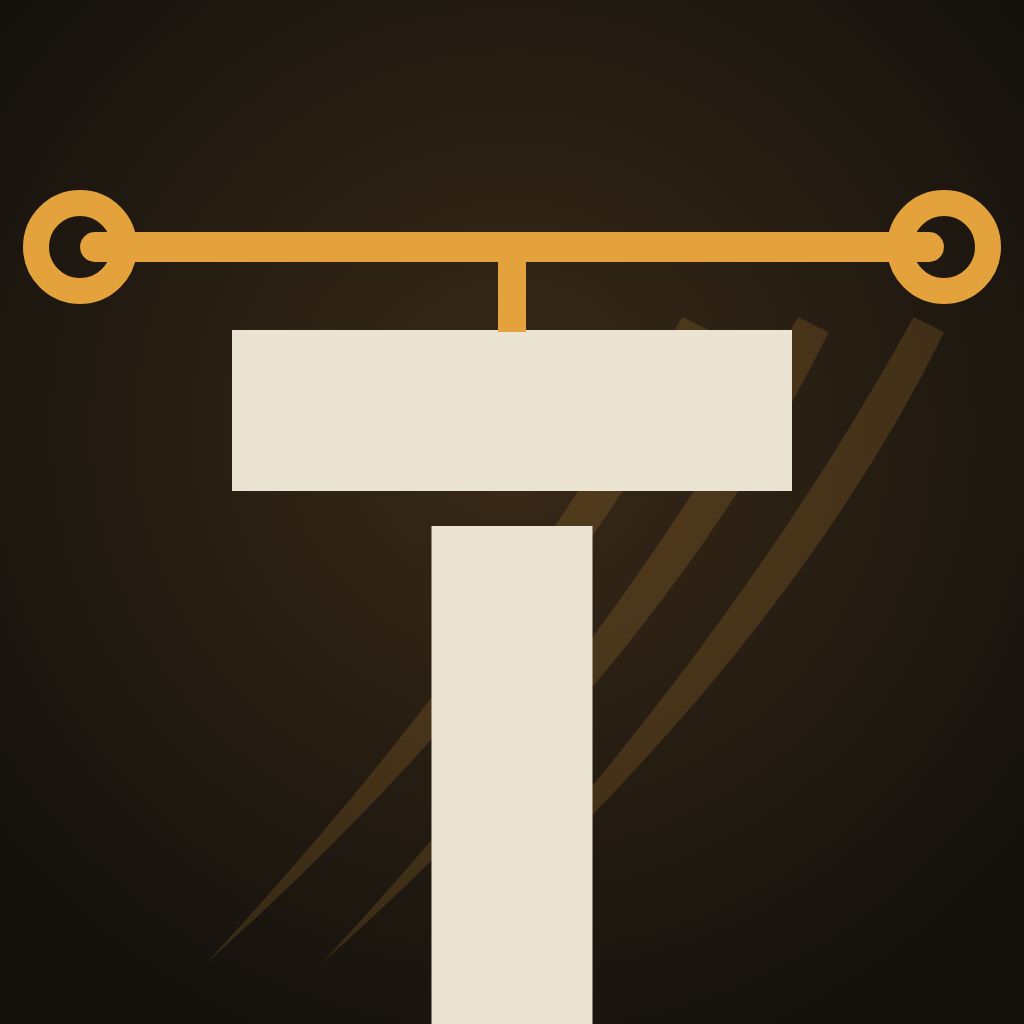
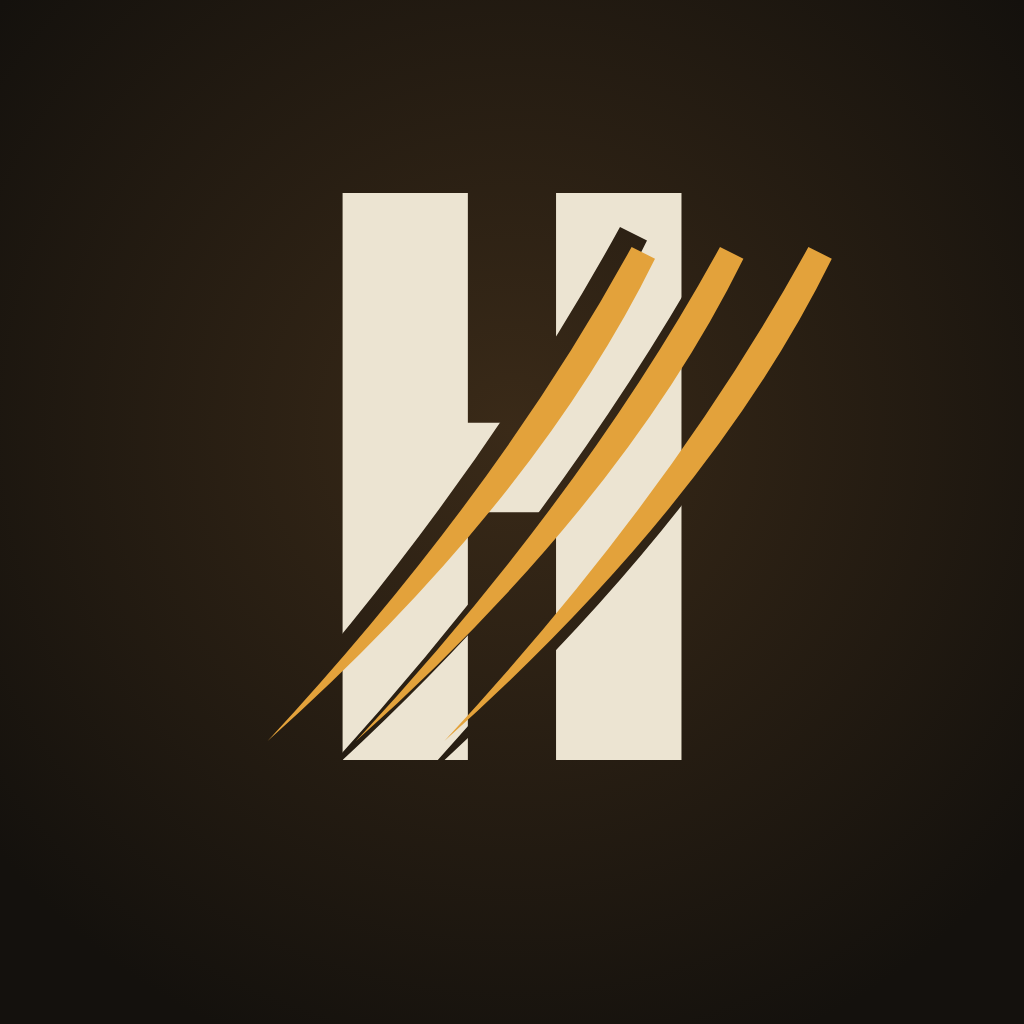
Rename the game to Hushclaw
New HUSHCLAW logo with the tagline "Stay quiet. Stay close.", a new app icon, and the title, product name, build names, itch guide and docs updated. TETHER stays in the story as the salvage outfit.

Claude-Session: https://claude.ai/code/session_01MQSvC5yWwsYWgdvtZWWVqy

Changed region(s): [[0.0, 0.1875, 1.0, 1.0], [0.3438, 0.875, 0.375, 0.9062]]

diff --git a/Assets/_Project/Data/Services/CloudCode/RecordCrew.js b/Assets/_Project/Data/Services/CloudCode/RecordCrew.js
@@ -1,6 +1,6 @@
 // Inputs: declared in this file's Unity import settings (the .meta), which is what deployment sends. The
 // module.exports.params at the bottom documents them; Unity would only read those in an initialised JS project.
-// TETHER: Primal — a team's finished online match, sent by its host, checked and added to the team's totals.
+// Hushclaw — a team's finished online match, sent by its host, checked and added to the team's totals.
 // The same rules as Match/CareerScore.TeamDelta: the players' scores times a bonus for how many got out
 // (1: x1.0, 2: x1.3, 3: x1.6, 4: x2.0); a wipe (nobody out) takes a quarter of the team's average match.
 // The team is the host's own (Teams.js), read on the server; its entry is keyed by the team's id.

diff --git a/Assets/_Project/Data/Services/CloudCode/RecordRun.js b/Assets/_Project/Data/Services/CloudCode/RecordRun.js
@@ -1,6 +1,6 @@
 // Inputs: declared in this file's Unity import settings (the .meta), which is what deployment sends. The
 // module.exports.params at the bottom documents them; Unity would only read those in an initialised JS project.
-// TETHER: Primal — one finished online run, checked on the server and added to the worldwide totals.
+// Hushclaw — one finished online run, checked on the server and added to the worldwide totals.
 // The same rules as Match/CareerScore.cs and Match/ScoreCheck (keep them in step). Called by the game with the
 // player's own sign-in, so the run always goes to the player who sent it.
 const { LeaderboardsApi } = require("@unity-services/leaderboards-1.1");

diff --git a/Assets/_Project/Data/Services/CloudCode/Teams.js b/Assets/_Project/Data/Services/CloudCode/Teams.js
@@ -1,6 +1,6 @@
 // Inputs: declared in this file's Unity import settings (the .meta), which is what deployment sends. The
 // module.exports.params at the bottom documents them; Unity would only read those in an initialised JS project.
-// TETHER: Primal — teams. A player is in at most one team: they create one, join one, or leave to join another.
+// Hushclaw — teams. A player is in at most one team: they create one, join one, or leave to join another.
 // A team keeps its name, country, emblem and members in Cloud Save (game data, written only here), and its points
 // on the teams boards (all time, this week, its country), keyed by its id so the totals follow the team.
 //

diff --git a/Tools/brand/make.py b/Tools/brand/make.py
@@ -1,37 +1,9 @@
-# Draws the TETHER, Primal and Vantward Games logos as SVG (TETHER's letters are plain shapes; Primal and
-# Vantward use Oswald, OFL, in fonts/). To regenerate the PNGs in Assets/_Project/Art/Brand/Resources/Brand:
+# Draws the HUSHCLAW logo, its tagline, the app icon and the Vantward Games logos as SVG (all text uses Oswald,
+# OFL, in fonts/). To regenerate the PNGs in Assets/_Project/Art/Brand/Resources/Brand:
 #   python3 make.py && cp fonts/*.woff2 svg/ && PW=$(npm root -g)/playwright node render.js   (writes png/)
 import os
 D = os.path.dirname(os.path.abspath(__file__))
 BONE, AMBER, RUST, INK = '#ECE4D2', '#E3A23B', '#B4532A', '#14110D'
-s, g, H = 46, 10, 220
-
-def T(x):  return [f'<rect x="{x}" y="0" width="160" height="{s}"/>', f'<rect x="{x+57}" y="{s+g}" width="{s}" height="{H-s-g}"/>']
-def E(x):  return [f'<rect x="{x}" y="0" width="{s}" height="{H}"/>', f'<rect x="{x+s+g}" y="0" width="{130-s-g}" height="{s}"/>',
-                   f'<rect x="{x+s+g}" y="{(H-s)/2}" width="{112-s-g}" height="{s}"/>', f'<rect x="{x+s+g}" y="{H-s}" width="{130-s-g}" height="{s}"/>']
-def Hh(x): return [f'<rect x="{x}" y="0" width="{s}" height="{H}"/>', f'<rect x="{x+150-s}" y="0" width="{s}" height="{H}"/>',
-                   f'<rect x="{x+s+g}" y="{(H-s)/2}" width="{150-2*s-2*g}" height="{s}"/>']
-def R(x):
-    a = x+s+g; b = 124
-    bowl = (f'<path fill-rule="evenodd" d="M{a} 0 H{x+88} A62 62 0 0 1 {x+88} {b} H{a} Z '
-            f'M{a} {s} H{x+88} A16 16 0 0 1 {x+88} {b-s} H{a} Z"/>')
-    leg = f'<polygon points="{x+62},{b+g} {x+110},{b+g} {x+152},{H} {x+104},{H}"/>'
-    return [f'<rect x="{x}" y="0" width="{s}" height="{H}"/>', bowl, leg]
-
-def tether_word(ox, oy, line=True):
-    parts, x, hooks = [], ox, []
-    for f, w, hk in [(T,160,[80]),(E,130,[23]),(T,160,[80]),(Hh,150,[23,127]),(E,130,[23]),(R,152,[23])]:
-        parts += f(x); hooks += [x+h for h in hk]; x += w + 30
-    out = [f'<g transform="translate(0,{oy})" fill="{BONE}">'] + parts + ['</g>']
-    if line:
-        y = oy - 44
-        out.append(f'<g fill="{AMBER}"><rect x="{ox-70}" y="{y}" width="{x-30-ox+140}" height="9" rx="4.5"/>')
-        for h in hooks: out.append(f'<rect x="{h-4}" y="{y+4}" width="8" height="{44-4}"/>')
-        out.append('</g>')
-        for cx in (ox-88, x-30+88):
-            out.append(f'<circle cx="{cx}" cy="{y+4.5}" r="18" fill="none" stroke="{AMBER}" stroke-width="9"/>')
-    return out, x - 30
-
 FONT = '''<style>@font-face{font-family:Osw;font-weight:700;src:url(oswald-latin-700-normal.woff2)}
 @font-face{font-family:Osw;font-weight:600;src:url(oswald-latin-600-normal.woff2)}
 @font-face{font-family:Osw;font-weight:500;src:url(oswald-latin-500-normal.woff2)}
@@ -70,14 +42,29 @@ def svg(w, h, body, bg=None):
     b = f'<rect width="{w}" height="{h}" fill="{bg}"/>' if bg else ''
     return f'<svg xmlns="http://www.w3.org/2000/svg" width="{w}" height="{h}" viewBox="0 0 {w} {h}">{FONT}{b}{"".join(body)}</svg>'
 
+def hushclaw(cx, cy, size, idp='h'):
+    # HUSHCLAW in bone, cut by three claw slashes across the C, with a thin amber rule under it.
+    tw = size*4.9
+    out = [f'<defs><mask id="{idp}m" maskUnits="userSpaceOnUse" x="-5000" y="-5000" width="10000" height="10000">'
+           f'<rect x="-5000" y="-5000" width="10000" height="10000" fill="white"/>'] + claws(cx+size*0.31, cy-size*0.40, size/170) + ['</mask></defs>']
+    out.append(f'<text x="{cx}" y="{cy}" text-anchor="middle" font-family="Osw" font-weight="700" font-size="{size}" '
+               f'letter-spacing="{size*0.06}" textLength="{tw}" lengthAdjust="spacing" fill="{BONE}" mask="url(#{idp}m)">HUSHCLAW</text>')
+    out.append(f'<rect x="{cx-tw/2}" y="{cy+size*0.12}" width="{tw}" height="{max(4,size*0.045)}" rx="{max(2,size*0.02)}" fill="{AMBER}"/>')
+    return out
+
+def tagline(cx, cy, size, text='STAY QUIET. STAY CLOSE.', color=AMBER):
+    w = size*len(text)*0.62
+    out = [f'<text x="{cx}" y="{cy}" text-anchor="middle" font-family="Osw" font-weight="500" font-size="{size}" '
+           f'letter-spacing="{size*0.18}" textLength="{w}" lengthAdjust="spacing" fill="{color}">{text}</text>']
+    for sx in (-1, 1):
+        x_in, x_out = cx + sx*(w/2 + size*0.5), cx + sx*(w/2 + size*2.2)
+        out.append(f'<rect x="{min(x_in,x_out)}" y="{cy-size*0.38}" width="{abs(x_out-x_in)}" height="{max(3,size*0.06)}" fill="{color}"/>')
+    return out
+
 files = {}
-word, wx = tether_word(120, 100)
-files['Tether'] = svg(wx+120, 360, word)
-
-files['Primal'] = svg(1000, 220, primal(500, 150, 110))
-
-word2, wx2 = tether_word(120, 100)
-files['TetherPrimal'] = svg(wx2+120, 520, word2 + primal((wx2+120)/2, 450, 92, idp='q'))
+files['Hushclaw'] = svg(1300, 330, hushclaw(650, 250, 250))
+files['Tagline'] = svg(1000, 160, tagline(500, 110, 70))
+files['HushclawLogo'] = svg(1300, 470, hushclaw(650, 250, 250, idp='g') + tagline(650, 420, 62))
 
 vm = vmark(60, 40)
 vw = ['<g>'] + vm + ['</g>',
@@ -88,15 +75,13 @@ vw = ['<g>'] + vm + ['</g>',
 files['VantwardGames'] = svg(1230, 380, vw)
 files['VantwardMark'] = svg(380, 380, vmark(60, 40))
 
-# app icon: dark tile, one hanging stencil T from the tether line, claw slashes behind
-icon = [f'<defs><radialGradient id="gl" cx="50%" cy="42%" r="65%"><stop offset="0" stop-color="#3A2A18"/><stop offset="1" stop-color="{INK}"/></radialGradient></defs>',
+# app icon: dark tile, three amber claw slashes with a bone H behind them
+icon = [f'<defs><radialGradient id="gl" cx="50%" cy="42%" r="65%"><stop offset="0" stop-color="#3A2A18"/><stop offset="1" stop-color="{INK}"/></radialGradient>'
+        f'<mask id="im" maskUnits="userSpaceOnUse" x="0" y="0" width="1024" height="1024"><rect width="1024" height="1024" fill="white"/>'] + \
+       claws(512, 512, 3.0) + ['</mask></defs>',
         '<rect width="1024" height="1024" fill="url(#gl)"/>',
-        '<g opacity="0.16" transform="translate(0,0)">' + ''.join(c.replace('fill="black"', f'fill="{AMBER}"') for c in claws(560, 640, 3.4)) + '</g>',
-        f'<g transform="translate(232,330) scale(3.5)" fill="{BONE}">'] + T(0) + ['</g>',
-        f'<rect x="80" y="232" width="864" height="30" rx="15" fill="{AMBER}"/>',
-        f'<rect x="498" y="246" width="28" height="86" fill="{AMBER}"/>',
-        f'<circle cx="80" cy="247" r="44" fill="none" stroke="{AMBER}" stroke-width="26"/>',
-        f'<circle cx="944" cy="247" r="44" fill="none" stroke="{AMBER}" stroke-width="26"/>']
+        f'<text x="512" y="760" text-anchor="middle" font-family="Osw" font-weight="700" font-size="700" fill="{BONE}" mask="url(#im)">H</text>',
+        '<g transform="translate(26,-18)">' + ''.join(c.replace('fill="black"', f'fill="{AMBER}"') for c in claws(512, 512, 2.6)) + '</g>']
 files['Icon1024'] = svg(1024, 1024, icon)
 
 os.makedirs(os.path.join(D, 'svg'), exist_ok=True)

diff --git a/Assets/_Project/Scripts/Net/TitleSequence.cs b/Assets/_Project/Scripts/Net/TitleSequence.cs
@@ -10,7 +10,7 @@ namespace ProjectFossil.Net
 {
     // What a player sees from launch to the menu (Docs/STORY.md): the studio logo on black, the story told in short
     // cards over a live island the camera slowly circles, read aloud by a narrator when the voice clips exist, then
-    // the TETHER logo slams in on a roar and a music hit, PRIMAL under it, and the two ease up to the top of the
+    // the HUSHCLAW logo slams in on a roar and a music hit, the tagline under it, and the two ease up to the top of the
     // screen as the menu appears. Music runs under all of it (SoundSynth.IntroScore) and the visuals follow the
     // music's clock, so they never drift apart. A quiet loop plays behind the menu, and stops in a match. The first
     // launch plays it all; later launches start at the logo. Any key or click skips to the logo hit and the menu.
@@ -56,7 +56,7 @@ namespace ProjectFossil.Net
         private Task<float[]> _scoreJob, _bedJob;
         private bool _hitPlayed;
 
-        private Texture2D _studio, _tether, _primal;
+        private Texture2D _studio, _logo, _tagline;
         private GUIStyle _bigText, _story, _hint, _tag;
         private Vector2[] _stars;
 
@@ -65,8 +65,8 @@ namespace ProjectFossil.Net
             Instance = this;
             _boot = GetComponent<MatchBootstrap>();
             _studio = Resources.Load<Texture2D>("Brand/VantwardGames");
-            _tether = Resources.Load<Texture2D>("Brand/Tether");
-            _primal = Resources.Load<Texture2D>("Brand/Primal");
+            _logo = Resources.Load<Texture2D>("Brand/Hushclaw");
+            _tagline = Resources.Load<Texture2D>("Brand/Tagline");
             LoadStory();
             var rng = new System.Random(66);
             _stars = new Vector2[140];
@@ -234,7 +234,7 @@ namespace ProjectFossil.Net
             _music.volume = Mathf.MoveTowards(_music.volume, target, Time.unscaledDeltaTime * 1.5f);
         }
 
-        // The roar with the music's hit, as TETHER slams in.
+        // The roar with the music's hit, as HUSHCLAW slams in.
         private void Hit()
         {
             _music.volume = MusicVolume;
@@ -437,7 +437,7 @@ namespace ProjectFossil.Net
             GUI.color = c;
         }
 
-        // TETHER slams in as its line draws left to right, PRIMAL fades in under it, then both ease up to the menu.
+        // HUSHCLAW slams in as it draws left to right, the tagline fades in under it, then both ease up to the menu.
         private void DrawLogoReveal()
         {
             float t = _t - _hitAt;
@@ -445,43 +445,43 @@ namespace ProjectFossil.Net
             float slam = Mathf.Clamp01(t / 0.35f);
             float scale = Mathf.Lerp(1.18f, 1f, 1f - (1f - slam) * (1f - slam));
             float wipe = Mathf.Clamp01(t / 0.45f); // the logo is there at once, with the roar
-            float primal = Mathf.Clamp01((t - 1.3f) / 1f);
+            float tagline = Mathf.Clamp01((t - 1.3f) / 1f);
             float rise = Mathf.Clamp01((t - LogoSeconds) / RiseSeconds);
             rise = rise * rise * (3f - 2f * rise);
             var (menuY, menuW) = MenuTitlePlace();
-            DrawTitle(Mathf.Lerp(Ui.H * 0.45f, menuY, rise), Mathf.Lerp(0.55f, menuW, rise), scale, wipe, primal);
+            DrawTitle(Mathf.Lerp(Ui.H * 0.45f, menuY, rise), Mathf.Lerp(0.55f, menuW, rise), scale, wipe, tagline);
         }
 
         // Where the title sits above the menu box: centred in the gap, sized to fit it.
         private static (float y, float widthShare) MenuTitlePlace()
         {
             float gap = Mathf.Max(90f, Ui.H * 0.5f - NetSession.MenuTopOffset);
-            float w = Mathf.Min(0.36f * Ui.W, gap * 0.8f / 0.42f); // TETHER over PRIMAL is about 0.42 of its width tall
+            float w = Mathf.Min(0.36f * Ui.W, gap * 0.8f / 0.42f); // the logo over the tagline is under 0.42 of its width tall
             return (gap * 0.5f, w / Ui.W);
         }
 
-        // TETHER with PRIMAL under it, centred at y, widthShare of the screen wide. wipe reveals TETHER left to right.
-        private void DrawTitle(float y, float widthShare, float scale, float wipe, float primalAlpha)
+        // HUSHCLAW with the tagline under it, centred at y, widthShare of the screen wide. wipe reveals the logo left to right.
+        private void DrawTitle(float y, float widthShare, float scale, float wipe, float taglineAlpha)
         {
             var c = GUI.color;
-            if (_tether == null)
+            if (_logo == null)
             {
                 GUI.color = new Color(1f, 0.85f, 0.45f, wipe);
-                GUI.Label(new Rect(0, y - 40f, Ui.W, 60f), "TETHER", _bigText);
-                GUI.color = new Color(1f, 1f, 1f, primalAlpha);
-                GUI.Label(new Rect(0, y + 18f, Ui.W, 30f), "P R I M A L", _tag);
+                GUI.Label(new Rect(0, y - 40f, Ui.W, 60f), "HUSHCLAW", _bigText);
+                GUI.color = new Color(1f, 1f, 1f, taglineAlpha);
+                GUI.Label(new Rect(0, y + 18f, Ui.W, 30f), "STAY QUIET. STAY CLOSE.", _tag);
                 GUI.color = c;
                 return;
             }
             float w = Ui.W * widthShare;
-            float tw = w * scale, th = tw * _tether.height / _tether.width;
-            float pw = w * 0.47f, ph = _primal != null ? pw * _primal.height / _primal.width : 0f;
+            float tw = w * scale, th = tw * _logo.height / _logo.width;
+            float pw = w * 0.6f, ph = _tagline != null ? pw * _tagline.height / _tagline.width : 0f;
             float top = y - (th + ph * 0.9f) * 0.5f;
-            GUI.DrawTextureWithTexCoords(new Rect((Ui.W - tw) * 0.5f, top, tw * wipe, th), _tether, new Rect(0f, 0f, wipe, 1f));
-            if (_primal != null && primalAlpha > 0f)
+            GUI.DrawTextureWithTexCoords(new Rect((Ui.W - tw) * 0.5f, top, tw * wipe, th), _logo, new Rect(0f, 0f, wipe, 1f));
+            if (_tagline != null && taglineAlpha > 0f)
             {
-                GUI.color = new Color(1f, 1f, 1f, primalAlpha);
-                GUI.DrawTexture(new Rect((Ui.W - pw) * 0.5f, top + th * 0.98f, pw, ph), _primal, ScaleMode.ScaleToFit, true);
+                GUI.color = new Color(1f, 1f, 1f, taglineAlpha);
+                GUI.DrawTexture(new Rect((Ui.W - pw) * 0.5f, top + th * 0.98f, pw, ph), _tagline, ScaleMode.ScaleToFit, true);
                 GUI.color = c;
             }
         }

diff --git a/Assets/_Project/Scripts/Editor/WindowsBuild.cs b/Assets/_Project/Scripts/Editor/WindowsBuild.cs
@@ -10,8 +10,8 @@ namespace ProjectFossil.EditorTools
     // target is left as it was.
     public static class WindowsBuild
     {
-        private const string Folder = "Builds/Windows/TETHER Primal";
-        private const string Zip    = "Builds/TETHER-Primal-Windows.zip";
+        private const string Folder = "Builds/Windows/Hushclaw";
+        private const string Zip    = "Builds/Hushclaw-Windows.zip";
 
         [MenuItem("Project Fossil/Co-op/Build for Windows")]
         public static void Build()
@@ -31,7 +31,7 @@ namespace ProjectFossil.EditorTools
             var options = new BuildPlayerOptions
             {
                 scenes = scenes.ToArray(),
-                locationPathName = $"{Folder}/TETHER Primal.exe",
+                locationPathName = $"{Folder}/Hushclaw.exe",
                 target = BuildTarget.StandaloneWindows64,
                 targetGroup = BuildTargetGroup.Standalone,
                 options = BuildOptions.None,
@@ -47,7 +47,7 @@ namespace ProjectFossil.EditorTools
             if (File.Exists(Zip)) File.Delete(Zip);
             System.IO.Compression.ZipFile.CreateFromDirectory(Folder, Zip, System.IO.Compression.CompressionLevel.Optimal, true);
             string full = Path.GetFullPath(Zip);
-            Debug.Log($"[WindowsBuild] Done: {full} ({new FileInfo(Zip).Length / (1024 * 1024)} MB). Send the zip, unzip it on the Windows PC, start Steam there, then run TETHER Primal.exe.");
+            Debug.Log($"[WindowsBuild] Done: {full} ({new FileInfo(Zip).Length / (1024 * 1024)} MB). Send the zip, unzip it on the Windows PC, start Steam there, then run Hushclaw.exe.");
             if (!Application.isBatchMode) EditorUtility.RevealInFinder(full);
         }
     }

diff --git a/Assets/_Project/Scripts/Audio/SoundSynth.Score.cs b/Assets/_Project/Scripts/Audio/SoundSynth.Score.cs
@@ -47,7 +47,7 @@ namespace ProjectFossil.Audio
                 bool story = card >= 0 && card < n;
 
                 // Fades in under the studio logo, steady through the story, steps back under the last line, and comes
-                // back gently under the TETHER logo.
+                // back gently under the HUSHCLAW logo.
                 float target = card < 0 ? Ramp(t, studio * 0.3f, studio) : story && cues[card] == Cue.Silence ? SilenceLevel : 1f;
                 float tau = card >= n ? 2.5f : 1.2f; // seconds
                 level += (target - level) / (tau * SampleRate);

diff --git a/Assets/_Project/Scripts/Net/SteamService.cs b/Assets/_Project/Scripts/Net/SteamService.cs
@@ -10,7 +10,7 @@ namespace ProjectFossil.Net
     // or from the friends list's "Join game", even when the game was not running yet.
     public class SteamService : MonoBehaviour
     {
-        // Valve's public test app (Spacewar) until TETHER: Primal has its own App ID from Steamworks.
+        // Valve's public test app (Spacewar) until Hushclaw has its own App ID from Steamworks.
         public const uint AppId = 480;
         private const string HostKey = "host";
 

diff --git a/Assets/_Project/Scripts/Editor/BrandTextureImport.cs b/Assets/_Project/Scripts/Editor/BrandTextureImport.cs
@@ -3,7 +3,7 @@ using UnityEditor;
 namespace ProjectFossil.EditorTools
 {
     // The studio and game logos (Art/Brand) are drawn on screen as they are: full size, no mipmaps (they'd blur
-    // the edges), clamped, uncompressed so the thin tether line keeps its colour.
+    // the edges), clamped, uncompressed so the thin amber rule keeps its colour.
     public class BrandTextureImport : AssetPostprocessor
     {
         private void OnPreprocessTexture()

diff --git a/Assets/_Project/Scripts/Net/NetSession.cs b/Assets/_Project/Scripts/Net/NetSession.cs
@@ -1192,7 +1192,7 @@ namespace ProjectFossil.Net
             GUILayout.Label(_status, _label);
         }
 
-        public const string GameTitle = "TETHER: PRIMAL";
+        public const string GameTitle = "HUSHCLAW";
         public const float MenuTopOffset = 190f; // the menu box starts this far above the screen's middle
         private bool _showSettings;
         public bool ShowingSettings => _showSettings || _showBoard;

diff --git a/Assets/_Project/Scripts/Editor/ItchBuild.cs b/Assets/_Project/Scripts/Editor/ItchBuild.cs
@@ -12,7 +12,7 @@ namespace ProjectFossil.EditorTools
     {
         public const string WindowsFolder = "Builds/itch/windows";
         public const string MacFolder     = "Builds/itch/mac";
-        private const string GameName     = "TETHER Primal";
+        private const string GameName     = "Hushclaw";
 
         [MenuItem("Project Fossil/Release/Build for itch (Windows + Mac)")]
         public static void BuildBoth()

diff --git a/Docs/ITCH.md b/Docs/ITCH.md
@@ -1,4 +1,4 @@
-# Releasing TETHER: Primal on itch.io (while Steam reviews)
+# Releasing Hushclaw on itch.io (while Steam reviews)
 
 ## Is it allowed?
 
@@ -20,7 +20,7 @@ page. It builds a player base and feedback without competing with the Steam laun
 - **No Steam inside.** Do not ship `steam_appid.txt` in an itch build. App 480 is Valve's test app, so players
   would show up as playing "Spacewar". Without it the game runs without Steam: Steam names, invites and Steam
   voice relay are off.
-- **Accounts.** Solo practice works offline with no account. Play Online needs a free TETHER account (username and
+- **Accounts.** Solo practice works offline with no account. Play Online needs a free Hushclaw account (username and
   password, through Unity Gaming Services); it gives online co-op, voice, teams and the online leaderboards.
 - **Co-op on itch** works over the internet with a **join code**: the host presses Host, shares the 6-character
   code, and friends type it in. No port forwarding or VPN is needed (Unity Relay). Players on the same Wi-Fi can also
@@ -31,9 +31,9 @@ page. It builds a player base and feedback without competing with the Steam laun
 
 1. **Make the builds** (on the Mac, in Unity):
    - `Project Fossil > Release > Build for itch (Windows + Mac)` gives `Builds/itch/windows/` and
-     `Builds/itch/mac/TETHER Primal.app`, both without `steam_appid.txt`.
+     `Builds/itch/mac/Hushclaw.app`, both without `steam_appid.txt`.
 2. **Create the itch page:** itch.io > Dashboard > Create new project.
-   - Title: TETHER: Primal. Project URL: `tether-primal`. Kind of project: Downloadable.
+   - Title: Hushclaw. Project URL: `hushclaw`. Kind of project: Downloadable.
    - Classification: Games. Release status: In development. Pricing: No payments (or Donate).
    - Visibility: **Draft** until everything is uploaded and checked.
 3. **Install butler** (itch's uploader): download from https://itchio.itch.io/butler, then in Terminal run
@@ -41,8 +41,8 @@ page. It builds a player base and feedback without competing with the Steam laun
 4. **Upload** (replace `vantward` with your itch username):
 
    ```
-   butler push "Builds/itch/windows" vantward/tether-primal:windows --userversion 0.1.0
-   butler push "Builds/itch/mac" vantward/tether-primal:mac --userversion 0.1.0
+   butler push "Builds/itch/windows" vantward/hushclaw:windows --userversion 0.1.0
+   butler push "Builds/itch/mac" vantward/hushclaw:mac --userversion 0.1.0
    ```
 
    Each later update: the same command with a higher `--userversion`. butler only uploads what changed.
@@ -52,7 +52,7 @@ page. It builds a player base and feedback without competing with the Steam laun
 ## Warnings players will see (put these in the description)
 
 - **Mac:** the app is not notarized yet, so macOS says it "can't be opened". Fix: open System Settings > Privacy &
-  Security, scroll down, press **Open Anyway** next to TETHER Primal. (Notarizing needs an Apple Developer
+  Security, scroll down, press **Open Anyway** next to Hushclaw. (Notarizing needs an Apple Developer
   account, US$99 a year; worth doing before Steam.)
 - **Windows:** SmartScreen may say "Windows protected your PC". Press **More info > Run anyway**.
 
@@ -90,7 +90,7 @@ Co-op dinosaur survival where the dinosaurs can hear you. Drop in, salvage, surv
 network, online (join code), 1–4 players, voice chat. **Languages:** English. **Accessibility:** configurable
 controls are planned.
 
-**Cover image (630x500):** `Assets/_Project/Art/Brand/Resources/Brand/TetherPrimal.png` over a dark in-game
+**Cover image (630x500):** `Assets/_Project/Art/Brand/Resources/Brand/HushclawLogo.png` over a dark in-game
 screenshot. **Icon:** `Icon1024.png`.
 
 ## Privacy note (put this at the bottom of the page)
